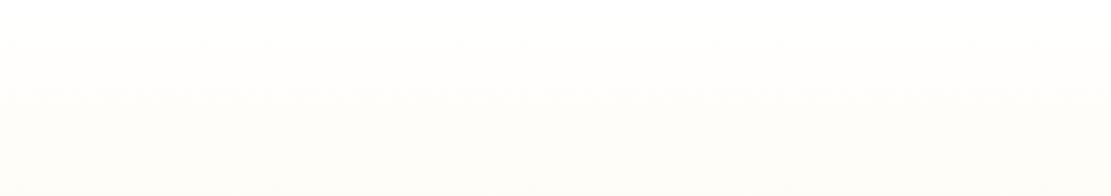
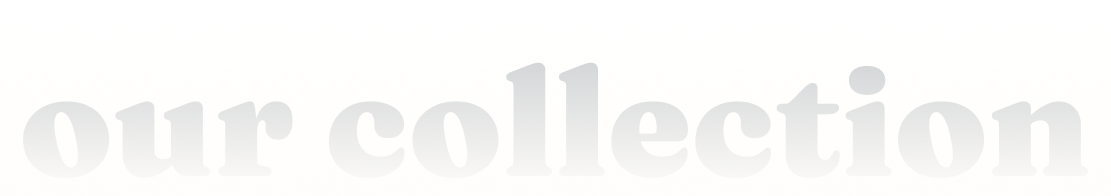
finishing my choose section

Changed region(s): [[0.306, 0.3061, 0.9793, 0.6122], [0.0306, 0.5204, 0.2754, 0.6122], [0.7651, 0.3367, 0.7957, 0.4898]]

diff --git a/index.html b/index.html
@@ -22,7 +22,9 @@
             </nav>
         </div>
     </header>
+    <!-- MAIN -->
     <main>
+        <!-- SECTION HERO -->
         <section class="hero">
             <div class="container hero-container">
                 <h1 class="visually-hidden">Coffeeroasters</h1>
@@ -33,6 +35,7 @@
                 </div>
             </div>
         </section>
+        <!-- SECTION COLLECTION -->
         <section class="collection">
             <div class="collection-container">
                 <ul class="collection-list">
@@ -55,6 +58,32 @@
                         <img class="collection-item-img" src="./img/danche.png" alt="" width="235" height="174">
                         <h3 class="collection-item-heading">Danche</h3>
                         <p class="collection-item-disc">Ethiopian hand-harvested blend densely packed with vibrant fruit notes.</p>
+                    </li>
+                </ul>
+            </div>
+        </section>
+        <!-- SECTION WHY CHOOSE -->
+        <section class="why-choose">
+            <div class="contaniner why-choose-container">
+                <div class="why-choose-top">
+                    <h2 class="why-choose-heading">Why choose us?</h2>
+                    <p class="why-choose-disc">A large part of our role is choosing which particular coffees will be featured in our range. This means working closely with the best coffee growers to give you a more impactful experience on every level.</p>
+                </div>
+                <ul class="why-choose-list">
+                    <li class="why-choose-item">
+                        <img class="why-choose-item-img" src="./img/best-quality.svg" alt="" width="72" height="72">
+                        <h3 class="why-choose-item-heading best-quality">Best quality</h3>
+                        <p class="why-choose-item-disc">Discover an endless variety of the world’s best artisan coffee from each of our roasters.</p>
+                    </li>
+                    <li class="why-choose-item">
+                        <img class="why-choose-item-img" src="./img/exclusive-benefits.svg" alt="" width="72" height="72">
+                        <h3 class="why-choose-item-heading exclusive-benefits">Exclusive benefits</h3>
+                        <p class="why-choose-item-disc">Special offers and swag when you subscribe, including 30% off your first shipment.</p>
+                    </li>
+                    <li class="why-choose-item">
+                        <img class="why-choose-item-img" src="./img/free-shipping.svg" alt="" width="72" height="72">
+                        <h3 class="why-choose-item-heading free-shipping">Free shipping</h3>
+                        <p class="why-choose-item-disc">We cover the cost and coffee is delivered fast. Peak freshness: guaranteed.</p>
                     </li>
                 </ul>
             </div>

diff --git a/css/main.css b/css/main.css
@@ -188,6 +188,10 @@ header {
 .collection {
     padding-top: 136px;
     padding-bottom: 200px;
+    background-image: url('../img/our-collection.png');
+    background-repeat: no-repeat;
+    background-size: 1111px 196px;
+    background-position: center top 25px;
 }
 .collection-container {
     width: 1151px;
@@ -219,4 +223,88 @@ header {
     padding: 0;
     font-family: 'Barlow';
     text-align: center;
+}
+/* WHY CHOOSE */
+.why-choose-container {
+    width: 1320px;
+    margin: 0 auto;
+    padding: 0 20px;
+    display: flex;
+    flex-direction: column;
+    align-items: center;
+    position: relative;
+    background-color: #293039;
+    border-radius: 5px;
+
+}
+.why-choose-top {
+    width: 540px;
+    padding-top: 100px;
+    padding-bottom: 317px;
+    display: flex;
+    flex-direction: column;
+}
+.why-choose-heading {
+    margin: 0;
+    padding: 0;
+    margin-bottom: 32px;
+    font-weight: 900;
+    font-size: 40px;
+    line-height: 48px;
+    text-align: center;
+    color: #FEFCF7;
+}
+.why-choose-disc {
+    margin: 0;
+    padding: 0;
+    font-family: 'Barlow';
+    line-height: 26px;
+    text-align: center;
+    color: #FEFCF7;
+    mix-blend-mode: normal;
+    opacity: 0.8;
+}
+.why-choose-list {
+    margin: 0;
+    padding: 0;
+    position: absolute;
+    bottom: -151px;
+    list-style: none;
+    display: flex;
+    width: 1110px;
+    justify-content: space-between;
+}
+.why-choose-item {
+    display: flex;
+    flex-direction: column;
+    align-items: center;
+    width: 350px;
+    padding-top: 72px;
+    padding-bottom: 48px;
+    padding-left: 48px;
+    padding-right: 48px;
+    background-color: #0E8784;
+    border-radius: 5px;
+}
+.why-choose-item-img {
+    margin-bottom: 56px;
+}
+.why-choose-item-heading {
+    margin: 0;
+    padding: 0;
+    margin-bottom: 24px;
+    display: flex;
+    flex-direction: column;
+    font-size: 24px;
+    line-height: 32px;
+    text-align: center;
+    color: #FEFCF7;
+}
+.why-choose-item-disc {
+    margin: 0;
+    padding: 0;
+    font-family: 'Barlow';
+    text-align: center;
+    color: #FEFCF7;
+    line-height: 26px;
 }
